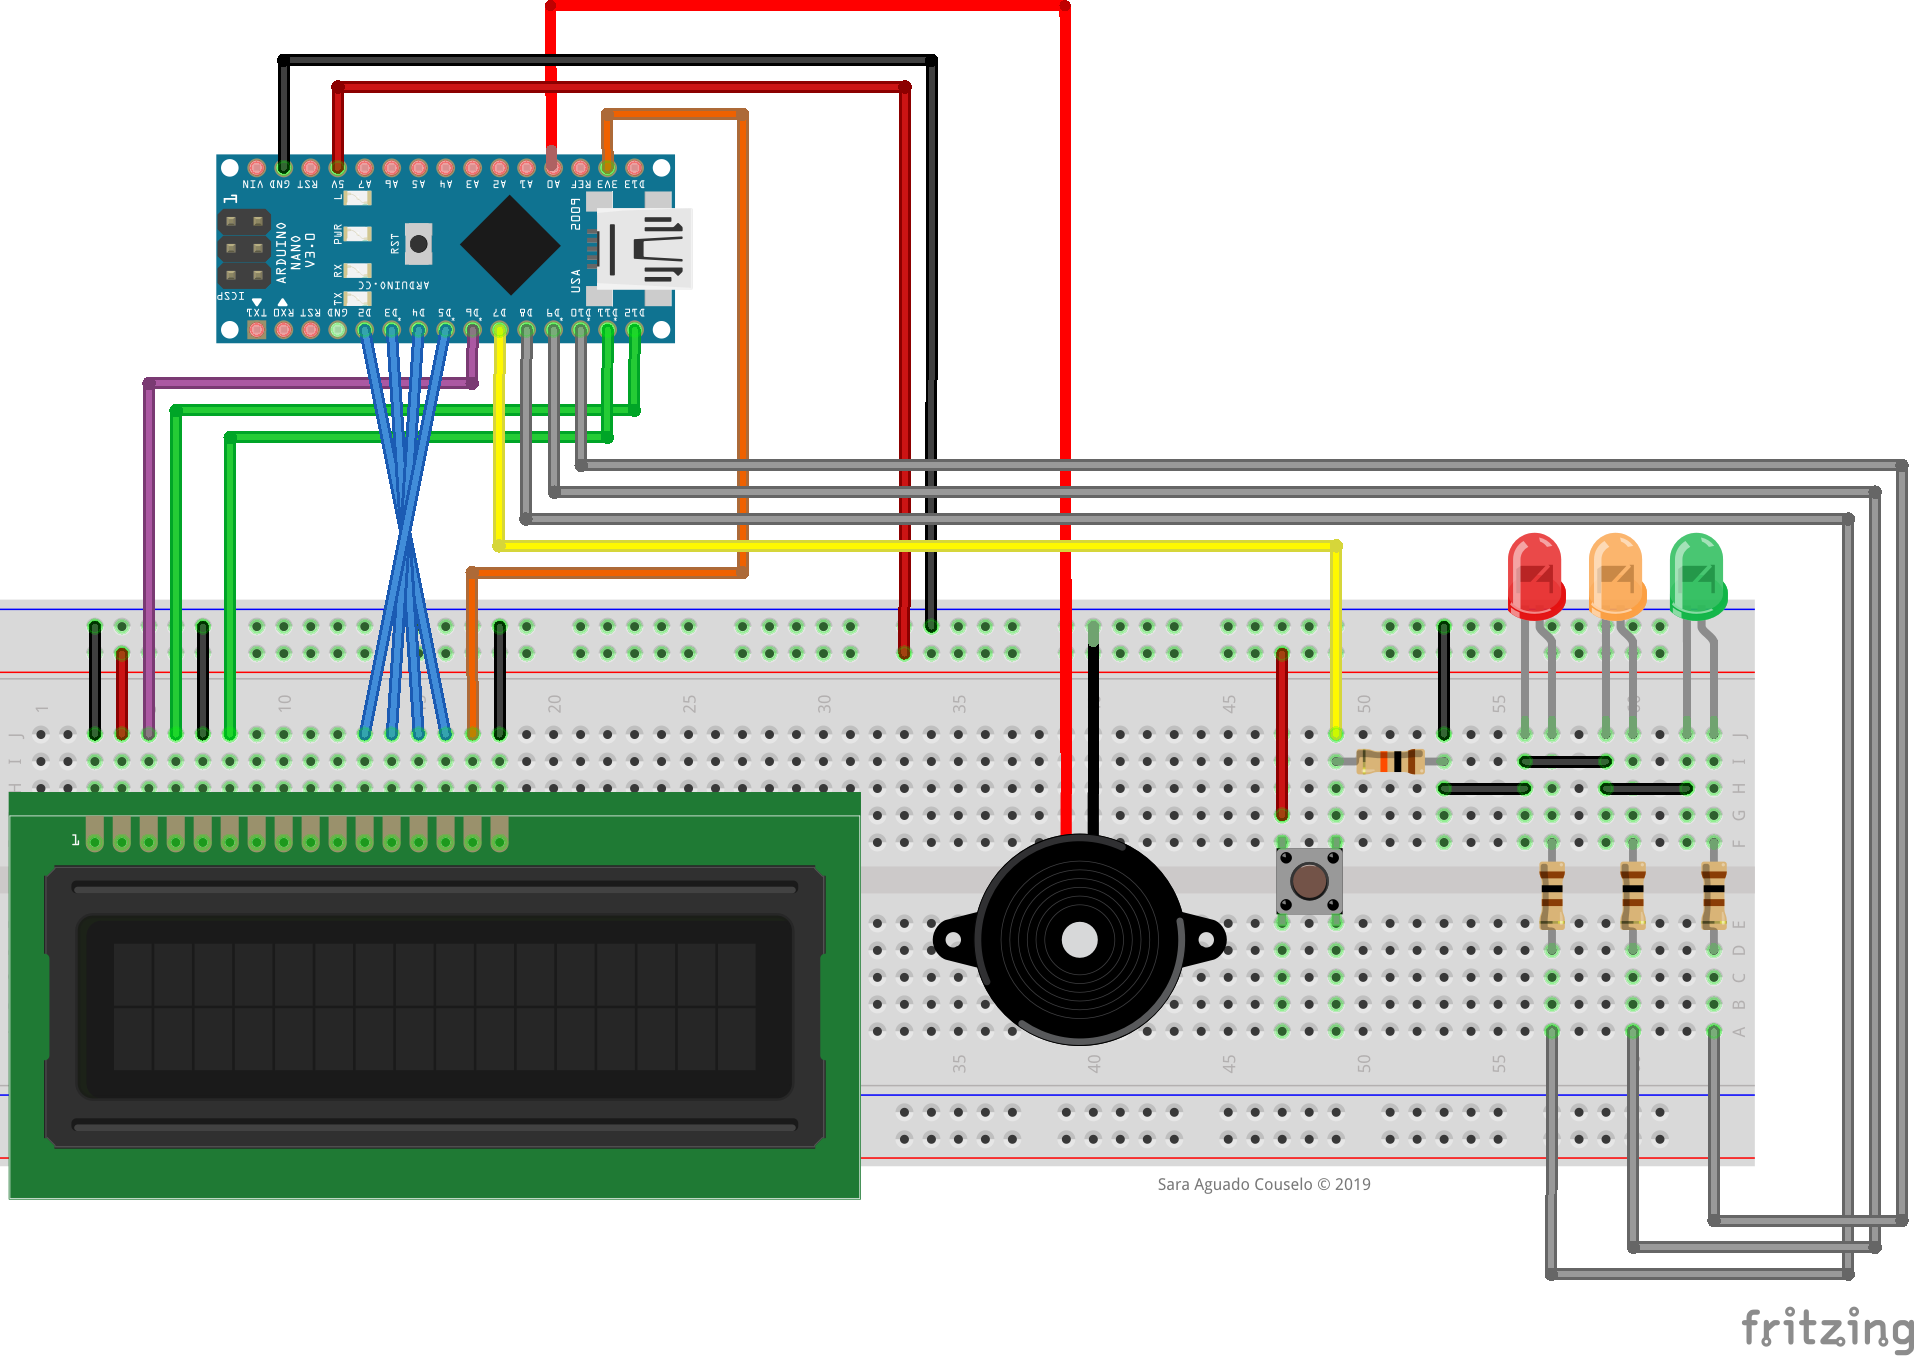
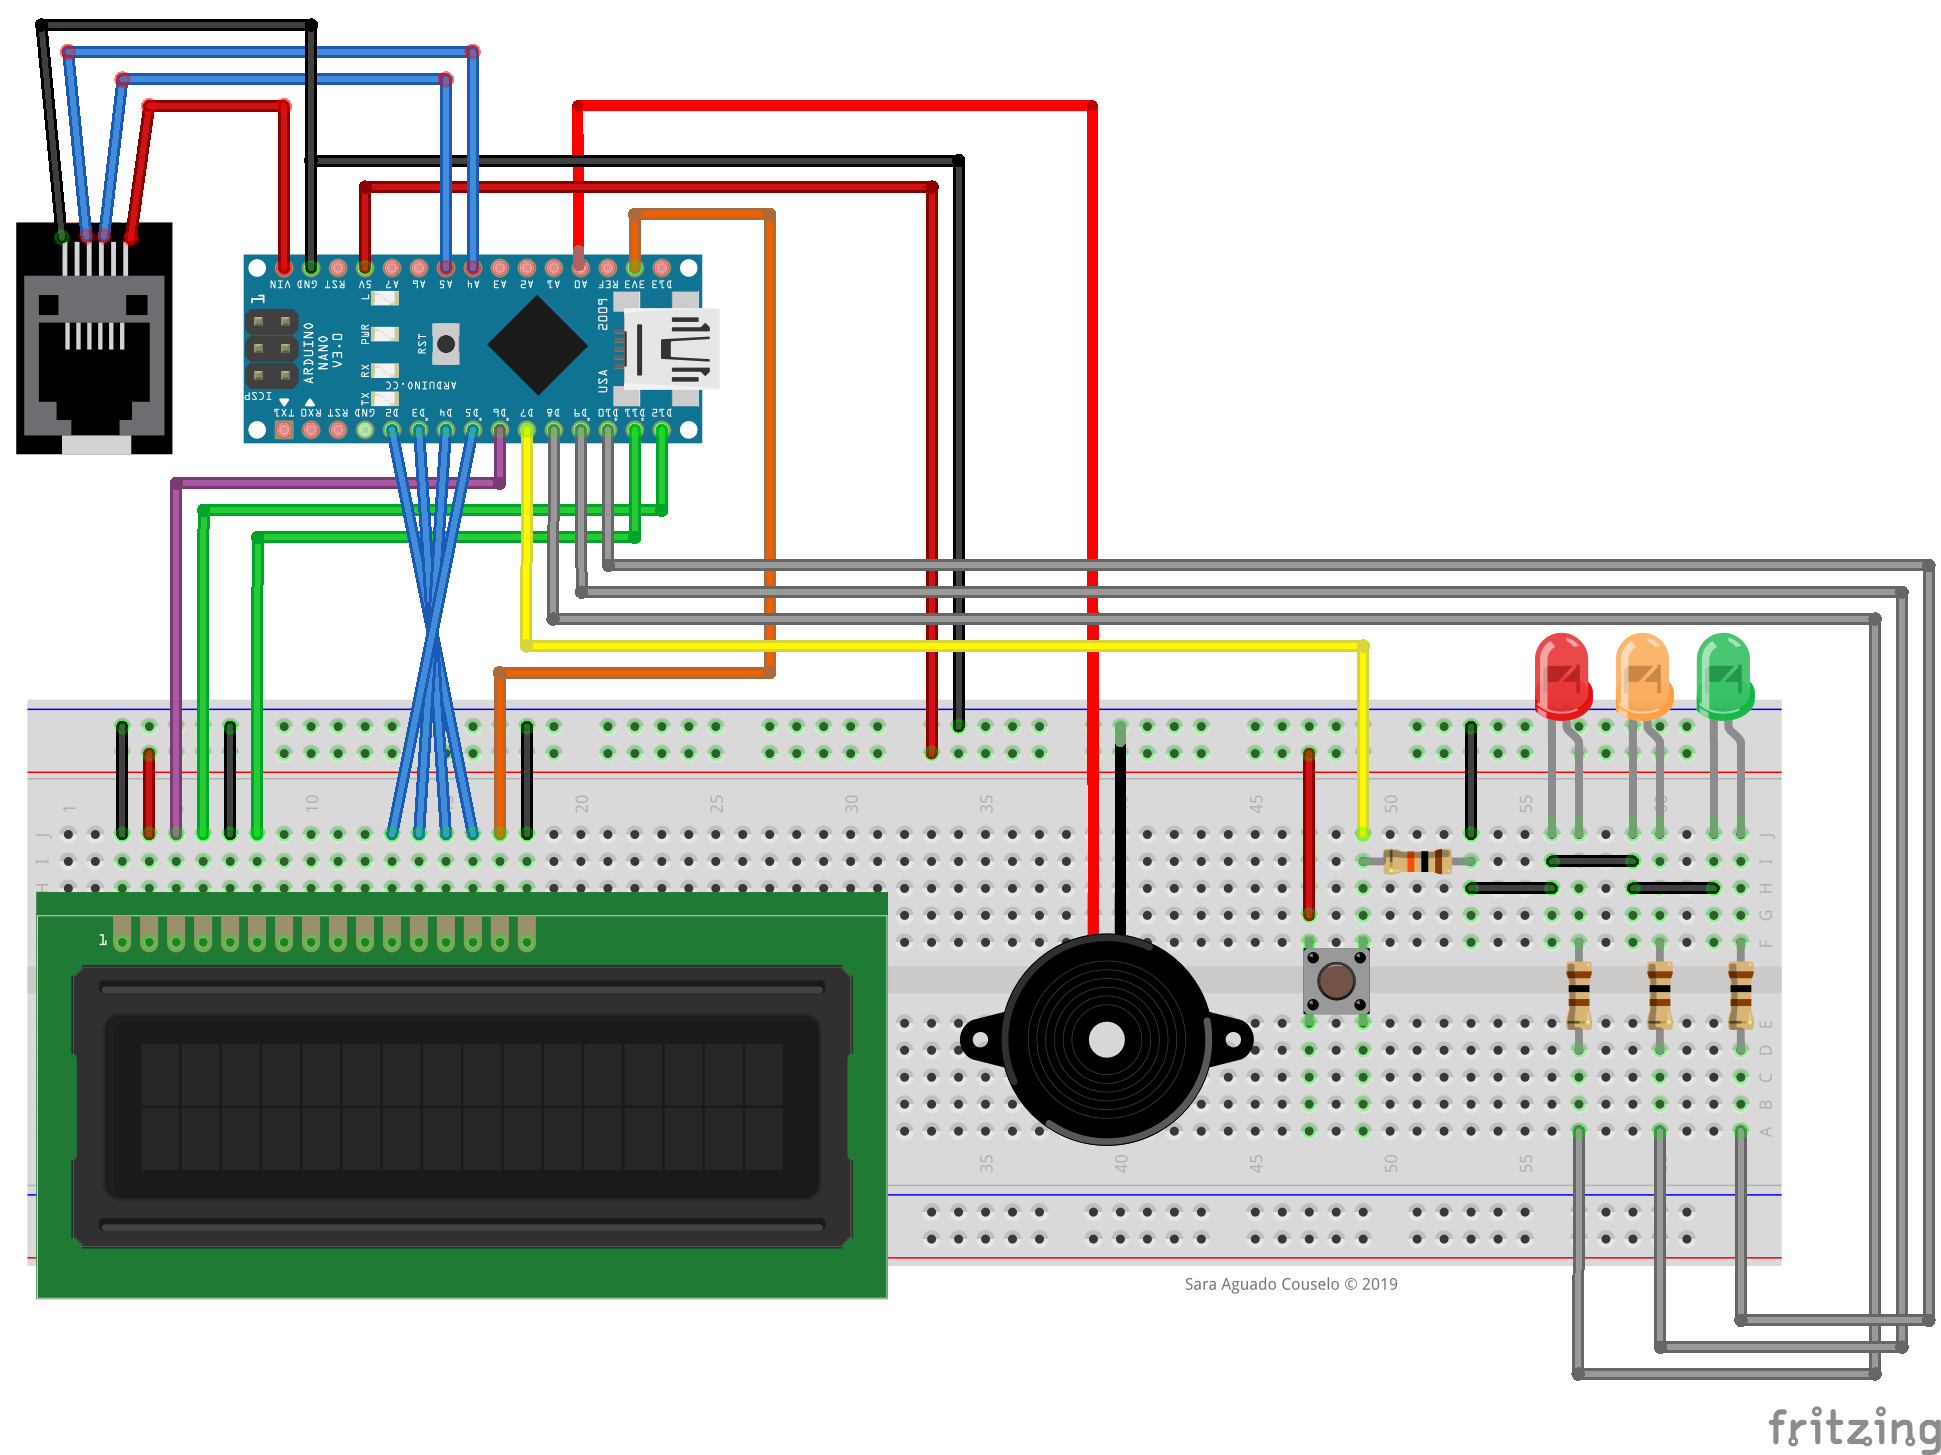
Actualizado README

diff --git a/README.md b/README.md
@@ -1,2 +1,18 @@
 # contavoltas
-Race management system made with Arduino
+Observando unha pista de carreiras de xoguete, ocorréuseme este pequeno proxecto. Trátase dun sistema de xestión de carreiras caseiro xestionado por Arduino, ao que irei engadindo funcionalidades (se teño tempo e por diversión).
+
+No meu caso, a pista (un Scalextric © Original C1 de dous carrís) xa inclúe na liña de meta dous sensores magnéticos, polo que só tiven que desmontar a pista e observar as conexións. Medindo a continuidade cun [multímetro] puiden determinar que o conector RJ12 (6 pines) que inclúe a miña pista funciona da seguinte maneira:
+
+![RJ12](./doc/rj12.png)
+
+A fonte de alimentación utilizada polo circuito da 14V en continua, polo que deberemos reducila para poder utilizala como tensión de entrada do Arduino (entre 7 e 12 voltios). Para iso podemos montar un circuito [divisor de tensión] con dúas resistencias (se son de igual valor, dividirán a voltaxe á metade).
+
+![Circuito](./doc/circuito.png)
+
+Finalmente, debemos pensar nos compoñentes a utilizar. Cunha pouca visión de futuro fixen unha montaxe con display LCD, pulsadores, un semáforo de leds e un zumbador. Só queda darlle a imaxinación á hora de programalo.
+
+![Montaxe](./doc/montaxe.png)
+
+
+[multímetro]:(https://youtu.be/OD-VMmPyCo4)
+[divisor de tensión]:(https://es.wikipedia.org/wiki/Divisor_de_tensi%C3%B3n)
